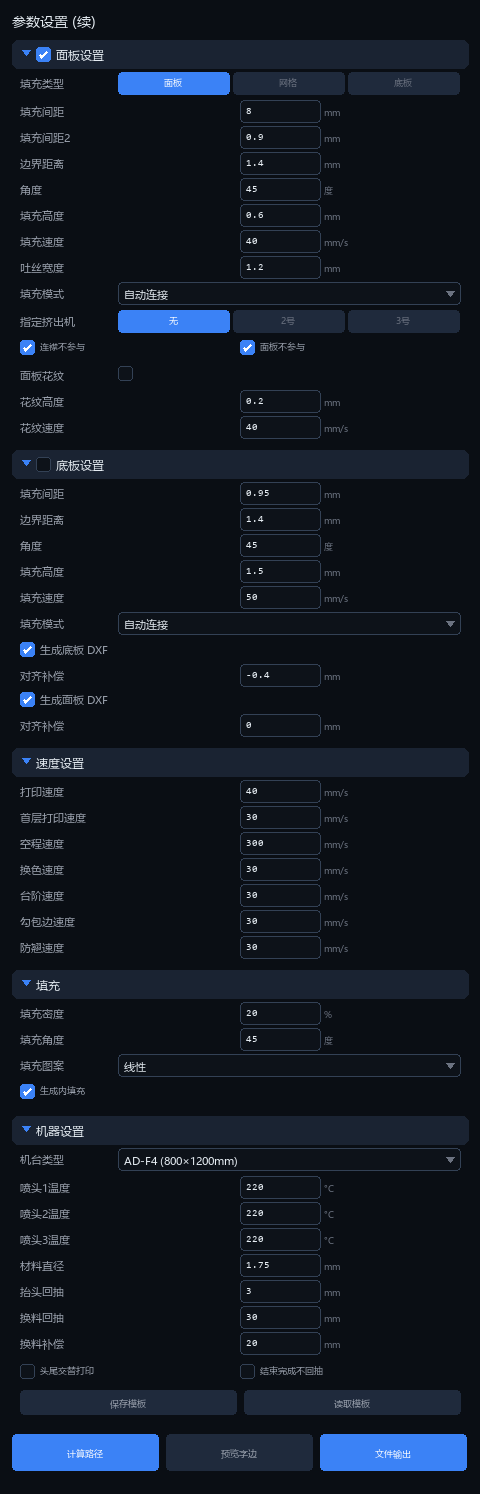
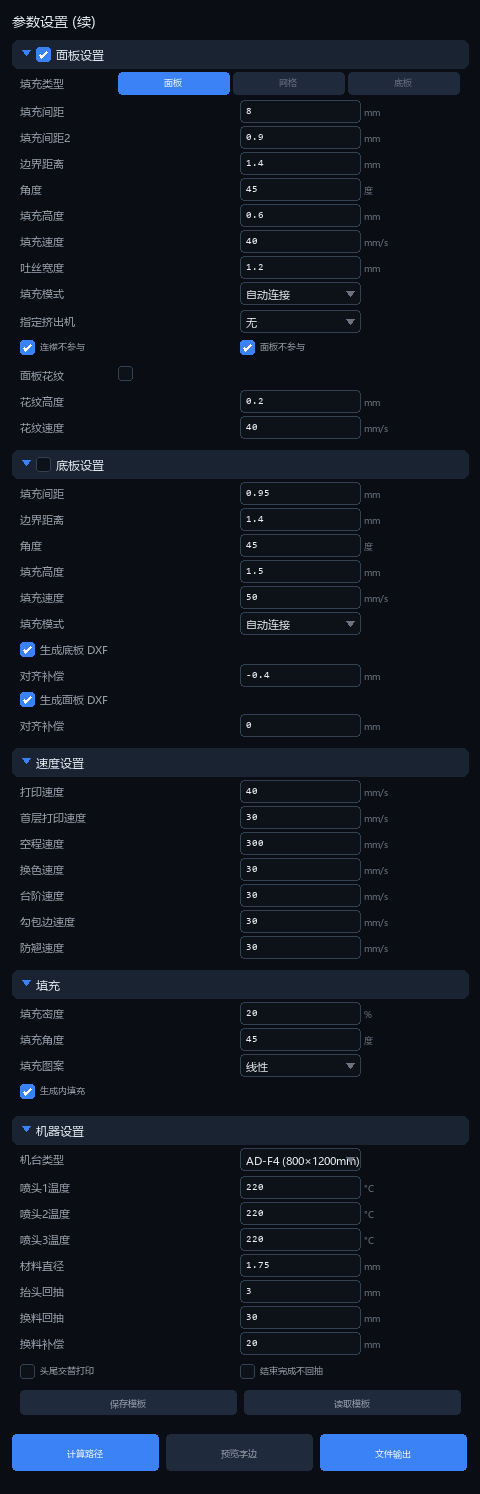
feat: 优化参数设置界面布局
- 输入框宽度增大至120px，下拉框对齐输入框
- 换色层设置布局优化，挤出机字段从中线开始
- 指定挤出机改为下拉框模式
- 删除"(最多7层)"提示文字

diff --git a/scripts/generate_ui_params.py b/scripts/generate_ui_params.py
@@ -143,10 +143,11 @@ class ParamsRenderer:
     def draw_dropdown_row(self, label, value):
         """绘制带标签的下拉框行"""
         x = self.margin + 8
-        label_w = 90
         self.draw_text(x, self.y + 4, label, font_label, C["text_secondary"])
-        dropdown_x = self.margin + label_w + 16
-        dropdown_w = self.content_w - label_w - 24
+        # 下拉框对齐输入框，宽度一致
+        dropdown_w = 120  # 与输入框宽度一致
+        center_x = self.margin + self.content_w // 2
+        dropdown_x = center_x
         self.draw_dropdown(dropdown_x, self.y, dropdown_w, 22, value)
         self.y += 28
 
@@ -178,7 +179,7 @@ class ParamsRenderer:
         self.draw_text(x, self.y + 4, label, font_label, C["text_secondary"])
         # 输入框固定宽度，靠中线对齐
         if input_w is None:
-            input_w = 80  # 固定较短宽度
+            input_w = 120  # 固定宽度（原80增大1.5倍）
         # 中线位置：面板宽度的一半
         center_x = self.margin + self.content_w // 2
         # 输入框左边缘对齐到中线
@@ -304,7 +305,7 @@ def generate_part1():
     # ============================================
     renderer.draw_section_header("换色层设置", expanded=True, has_checkbox=True, checked=True)
 
-    renderer.draw_text(m + 8, renderer.y + 2, "换色层数 (最多7层)", font_small, C["text_muted"])
+    renderer.draw_text(m + 8, renderer.y + 2, "换色层数", font_small, C["text_muted"])
     renderer.y += 18
 
     color_layers = [
@@ -315,18 +316,44 @@ def generate_part1():
         ("5", "0", "1", False, C["extruder_1"]),
     ]
 
+    # 换色层布局优化 - 均匀分布
+    row_start = m + 8
+    row_end = m + renderer.content_w - 8
+    total_w = row_end - row_start  # 可用总宽度
+    center_x = m + renderer.content_w // 2  # 中线位置
+
+    # 布局分配
+    col1_x = row_start  # 层号
+    col2_x = row_start + 50  # 高度输入框
+    col3_x = center_x  # 挤出机标签从中线开始
+    col4_x = center_x + 60  # 挤出机下拉框
+    col5_x = row_end - 18  # 复选框靠右
+
     for layer_num, height, ext, enabled, color in color_layers:
-        x = m + 8
+        # 色条指示器
         if enabled:
-            renderer.draw_rounded_rect(x, renderer.y + 2, 4, 18, 2, fill=color)
-        renderer.draw_text(x + 10, renderer.y + 4, f"层{layer_num}", font_small, C["text_primary"] if enabled else C["text_muted"])
-        renderer.draw_input(x + 50, renderer.y, 45, 20, height, "mm")
-        renderer.draw_text(x + 130, renderer.y + 4, "挤出机", font_small, C["text_muted"])
-        renderer.draw_dropdown(x + 175, renderer.y, 45, 20, ext)
-        renderer.draw_checkbox(x + 235, renderer.y + 3, enabled, 14)
+            renderer.draw_rounded_rect(col1_x, renderer.y + 2, 4, 18, 2, fill=color)
+
+        # 层号标签
+        renderer.draw_text(col1_x + 10, renderer.y + 4, f"层{layer_num}", font_small, C["text_primary"] if enabled else C["text_muted"])
+
+        # 高度输入框
+        renderer.draw_input(int(col2_x), renderer.y, 80, 20, height, "mm")
+
+        # 挤出机标签 - 从中线开始
+        renderer.draw_text(int(col3_x), renderer.y + 4, "挤出机", font_small, C["text_muted"])
+
+        # 挤出机下拉框
+        renderer.draw_dropdown(int(col4_x), renderer.y, 70, 20, ext)
+
+        # 启用复选框
+        renderer.draw_checkbox(int(col5_x), renderer.y + 3, enabled, 14)
         renderer.y += 24
 
-    renderer.draw_button(m + 8, renderer.y, 100, 24, "+ 添加换色层")
+    # 添加换色层按钮 - 居中对齐
+    btn_w = 120
+    btn_x = m + (renderer.content_w - btn_w) // 2
+    renderer.draw_button(btn_x, renderer.y, btn_w, 24, "+ 添加换色层")
     renderer.y += 32
 
     # 启用喷头2
@@ -484,7 +511,7 @@ def generate_part2():
 
     renderer.draw_dropdown_row("填充模式", "自动连接")
 
-    renderer.draw_radio_row("指定挤出机", ["无", "2号", "3号"], selected=0)
+    renderer.draw_dropdown_row("指定挤出机", "无")
 
     # 复选框行 - 等分布局
     check_row_w = renderer.content_w - 16
